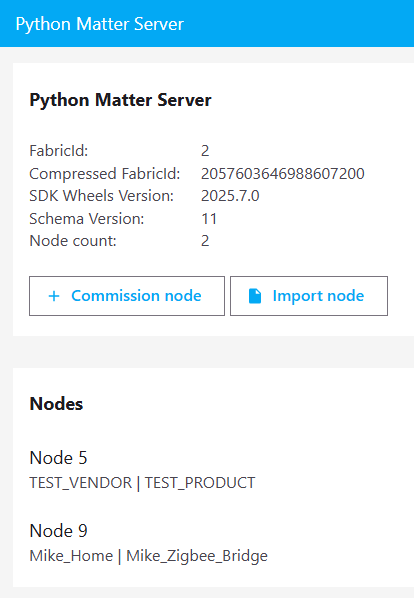
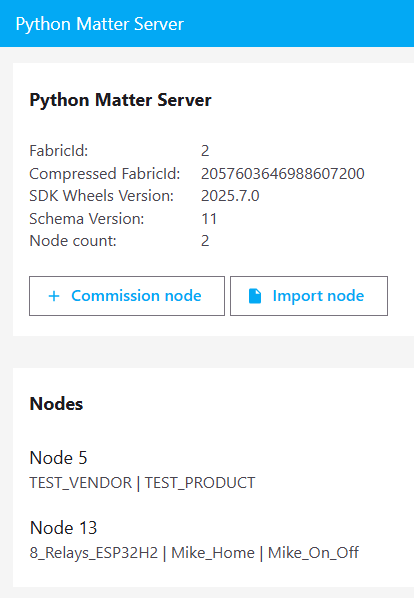
custom parameters from Mike_On_Off project + description

Changed region(s): [[0.058, 0.8729, 0.8696, 0.9632]]

diff --git a/install/MATTER_SW-HW_CONF.md b/install/MATTER_SW-HW_CONF.md
@@ -25,17 +25,36 @@ Changed parameters in the description of the Matter node:
 Add settings for **VendorName**, **ProductName**, and **HardwareVersionString** in the *CMakeLists.txt* file. The *PROJECT_VER* and *PROJECT_VER_NUMBER* parameters are used in ESP-Matter to set the values of **SoftwareVersionString** and **SoftwareVersion**, respectively. Change the *PROJECT_VER* value.  
 [sw-hw_conf_06-CMakeLists.txt](MATTER_SW-HW_CONF/sw-hw_conf_06-CMakeLists.txt)  
 ~~~
+#-- BasicInformationCluster (ClusterId 40, 0x0028), Endpoint 0
+#-- AttributeId 1: VendorName
 set(DEVICE_VENDOR_NAME "Mike_Home")
-set(DEVICE_PRODUCT_NAME "Mike_Zigbee_Bridge")
+#-- AttributeId 3: ProductName
+set(DEVICE_PRODUCT_NAME "Mike_On_Off")
+#-- AttributeId 5: NodeLabel
+set(DEVICE_NODE_LABEL "8_Relays_ESP32H2")
+#-- AttributeId 6: Location
+set(DEVICE_LOCATION "Home")
+#-- AttributeId 7: HardwareVersion
+set(CONFIG_DEFAULT_DEVICE_HARDWARE_VERSION "See: sdkconfig.default")
+#-- AttributeId 8: HardwareVersionString
 set(DEVICE_HARDWARE_VERSION_STRING "2.2.2")
-set(PROJECT_VER "1.1.1")
+#-- AttributeId 9: SoftwareVersion
 set(PROJECT_VER_NUMBER 1)
+#-- AttributeId 10: SoftwareVersionString
+set(PROJECT_VER "1.1.1")
 
+#-- Define custom options for the compiler
+add_compile_definitions(
+    CONFIG_CUSTOM_DEVICE_NODE_LABEL="${DEVICE_NODE_LABEL}"
+    CONFIG_CUSTOM_DEVICE_LOCATION="${DEVICE_LOCATION}"
+)
+
+#-- Set predefined options for the compiler
 idf_build_set_property(COMPILE_OPTIONS "-DCHIP_DEVICE_CONFIG_DEVICE_VENDOR_NAME=\"${DEVICE_VENDOR_NAME}\"" APPEND)
 idf_build_set_property(COMPILE_OPTIONS "-DCHIP_DEVICE_CONFIG_DEVICE_PRODUCT_NAME=\"${DEVICE_PRODUCT_NAME}\"" APPEND)
 idf_build_set_property(COMPILE_OPTIONS "-DCHIP_DEVICE_CONFIG_DEFAULT_DEVICE_HARDWARE_VERSION_STRING=\"${DEVICE_HARDWARE_VERSION_STRING}\"" APPEND)
 
-project(zigbee_bridge)
+project(mike_on_off)
 ~~~
   
 Add settings for **HardwareVersion** and **SoftwareVersion** to *sdkconfig.defaults* (they cannot be specified directly in *CMakeLists.txt*) and specify that the PROJECT_VER will be taken from the config:  
@@ -67,6 +86,36 @@ CONFIG_APP_PROJECT_VER="v666"
 
 As we can see, the values of **SoftwareVersion** and **SoftwareVersionString** are now taken from the *CMakeLists.txt* settings  
 ![](MATTER_SW-HW_CONF/sw-hw_conf_10.png)  
+
+The **Location** and **NodeLabel** parameters cannot be set in the project configuration, so we will change them programmatically:
+~~~
+void set_basic_attributes_esp_matter()
+{
+  uint16_t endpoint_id = 0x0000;
+
+  //-- Set NodeLabel
+  char node_label[] = CONFIG_CUSTOM_DEVICE_NODE_LABEL;
+  esp_matter_attr_val_t node_label_val = esp_matter_char_str(node_label, strlen(node_label));
+  esp_err_t err = esp_matter::attribute::update(
+    endpoint_id,
+    chip::app::Clusters::BasicInformation::Id,
+    chip::app::Clusters::BasicInformation::Attributes::NodeLabel::Id,
+    &node_label_val
+  );
+  
+  //-- Set Location (unfortunately, it is not yet included in the cluster definition)
+  char location[] = CONFIG_CUSTOM_DEVICE_LOCATION;
+  esp_matter_attr_val_t location_val = esp_matter_char_str(location, strlen(location));
+  err = esp_matter::attribute::update(
+    endpoint_id,
+    chip::app::Clusters::BasicInformation::Id,
+    chip::app::Clusters::BasicInformation::Attributes::Location::Id,
+    &location_val
+  );
+}
+~~~
+The values for **CONFIG_CUSTOM_DEVICE_NODE_LABEL** and **CONFIG_CUSTOM_DEVICE_LOCATION** are defined in *CMakeLists.txt*.  
+Unfortunately, the **Location** parameter is not yet included in the cluster definition, so we will save its processing for a future ESP-IDF/ESP-MATTER release.  
   
 In summary, what we can see in Home Assistant:  
 ![](MATTER_SW-HW_CONF/sw-hw_conf_11.png)  
